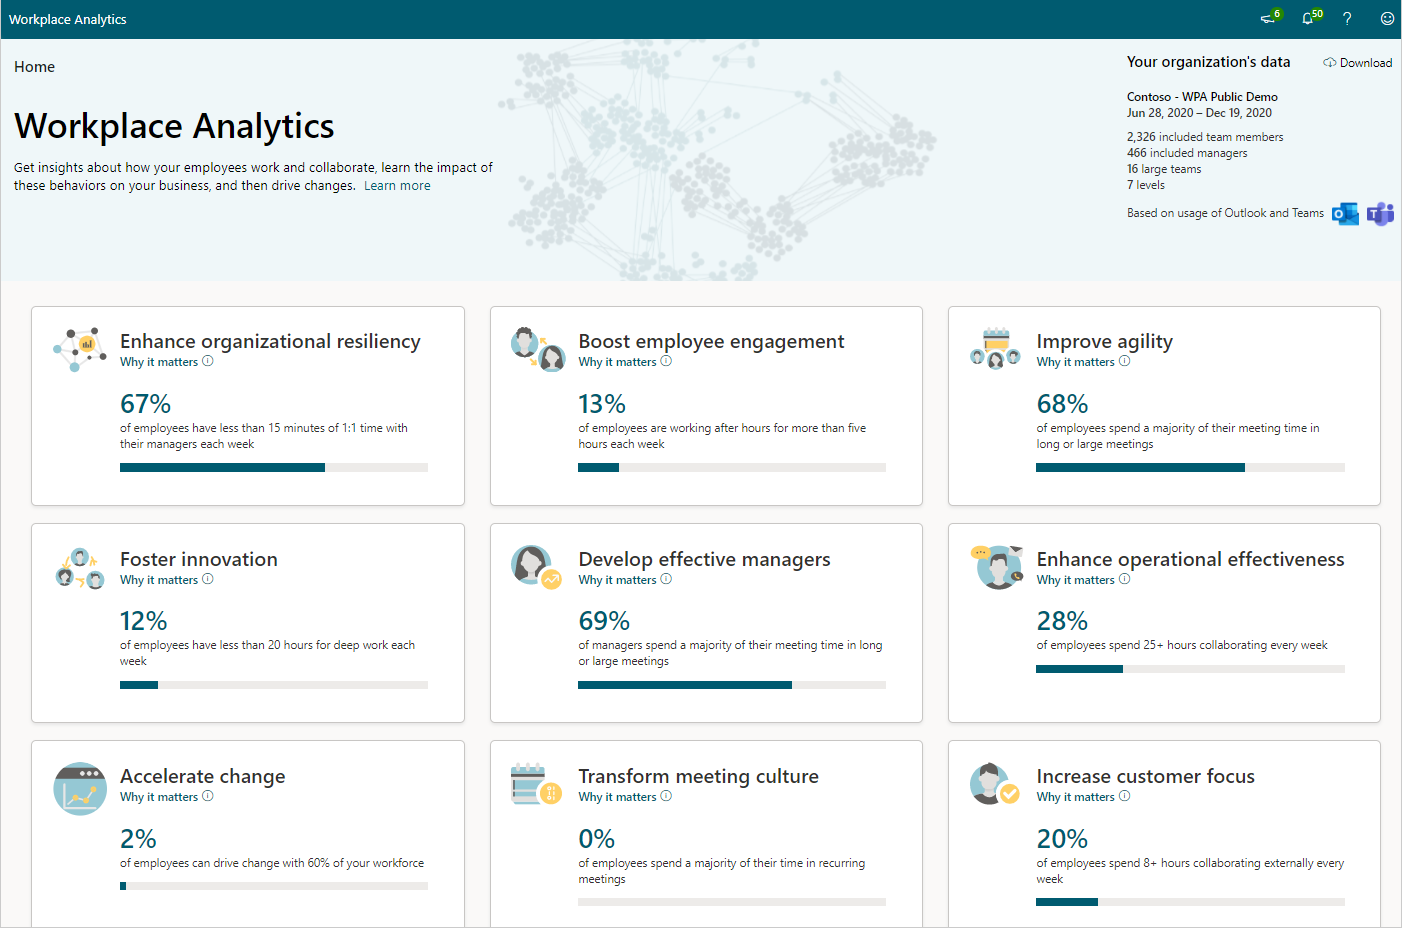
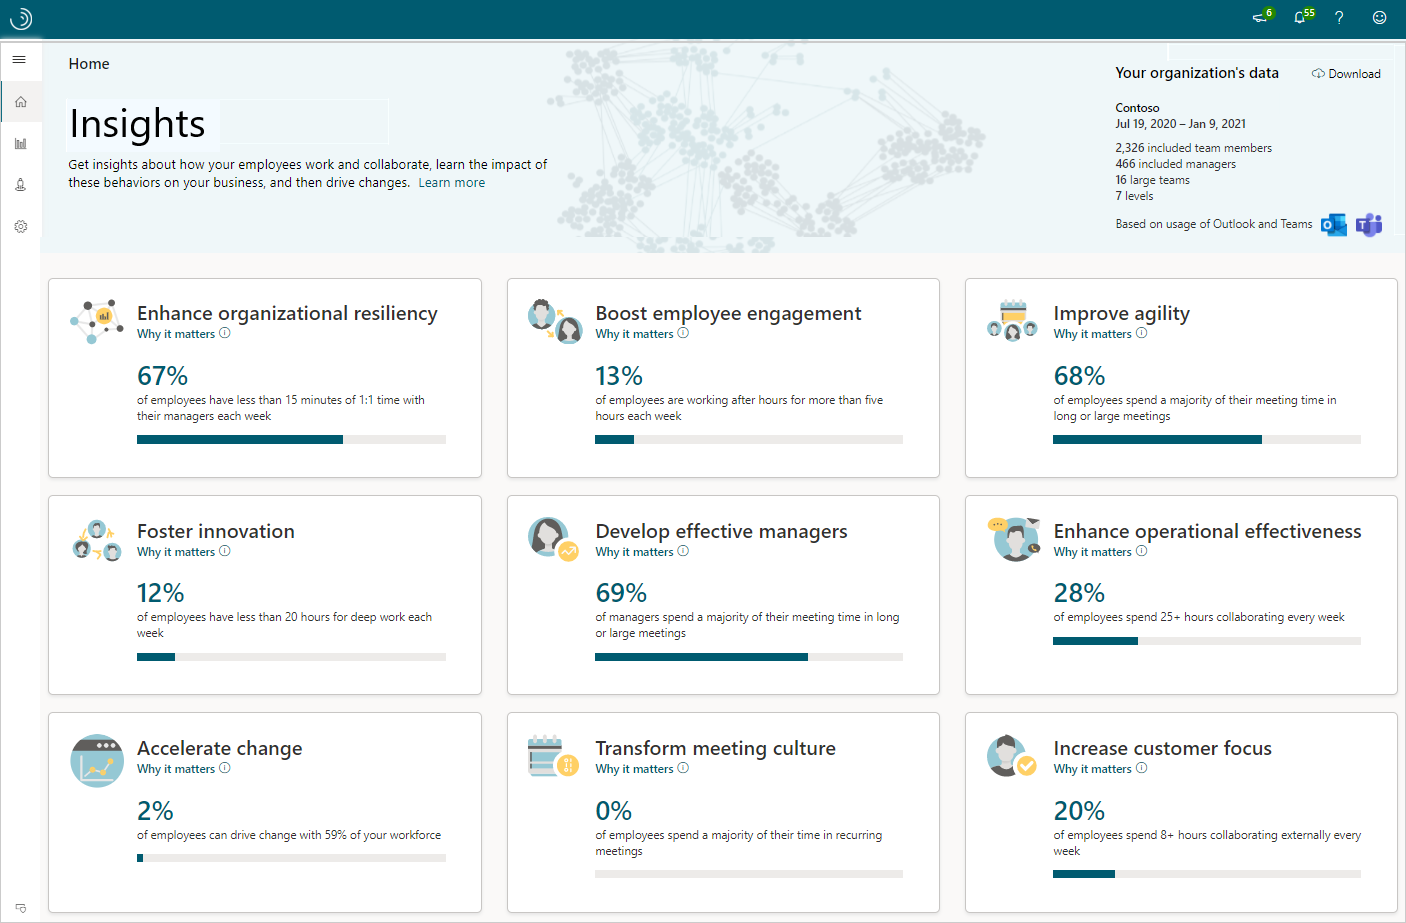
adds and updates

diff --git a/workplace-analytics-insights/intro.md b/workplace-analytics-insights/intro.md
@@ -1,7 +1,7 @@
 ---
 ROBOTS: NOINDEX,NOFOLLOW
-title: Introducing Workplace Analytics insights
-description: About Workplace Analytics insights to learn how your organization gets work done
+title: Introducing Insights
+description: About Insights to learn how your organization gets work done
 author: madehmer
 ms.author: v-mideh
 ms.topic: conceptual
@@ -9,21 +9,21 @@ localization_priority: normal
 ms.prod: wpa
 
 ---
-# Introducing Workplace Analytics insights
+# Insights introduction
 
 *This experience is only available through private preview at this time.*
 
-As a business leader, understanding how your employees work together is important. Workplace Analytics insights shows how your employees get work done and collaborate that can help you make business decisions accordingly.
+As a business leader, understanding how your employees work together is important. Microsoft Insights shows how your employees get work done and collaborate that can help you make business decisions accordingly.
 
 ![Insights home page](./images/insights-home.png)
 
 This new release is currently limited to Microsoft or Office 365 E5 or E3 plan subscribers through your Microsoft service representative.
 
-You can request access and get more information at [Microsoft Workplace Analytics](https://www.microsoft.com/microsoft-365/business/workplace-analytics). Select **Contact us** and complete the form to request access and get more information about Workplace Analytics insights.
+You can request access and get more information at [Microsoft Insights](https://www.microsoft.com/microsoft-365/business/workplace-analytics). Select **Contact us** and complete the form to request access and get more information about Insights.
 
 ## Your organizational data
 
-The top right of the page shows who in your organization is included in this analysis. This data is based on the most recent organizational data processed in your Azure Active Directory environment, including the current date range and the number of measured employees, managers, teams, and organizational levels.
+The top right of the page shows who in your organization is included in this analysis. This data is based on the most recent organizational data processed in your Microsoft Azure Active Directory environment, including the current date range and the number of measured employees, managers, teams, and organizational levels. For more details, see [Data privacy](privacy.md).
 
 >[!Important]
 >Only data about users whose [geo location is North America](https://docs.microsoft.com/microsoft-365/enterprise/microsoft-365-multi-geo#microsoft-365-multi-geo-availability) is included in this initial release.
@@ -32,7 +32,7 @@ The top right of the page shows who in your organization is included in this ana
 
 Each of the following business outcomes has a page dedicated to analysis about your organization and research-based suggestions on how to maintain or drive change toward business success.
 
-You can select **Download** in the top right to create and view a PowerPoint version of the following business outcomes. This enables you to share this valuable data with people in your organization who do not use Workplace Analytics.
+You can select **Download** in the top right to create and view a PowerPoint version of the following business outcomes. This enables you to share this valuable data with people in your organization who do not have access to Insights.
 
 |Business outcome |Why it matters |
 |-----------------|--------------|
@@ -48,10 +48,10 @@ You can select **Download** in the top right to create and view a PowerPoint ver
 
 ## Supporting evidence
 
-Each insight includes **Supporting evidence** that links you to related information, such as [Microsoft Workplace Insights](https://insights.office.com/) authored by:
+Each insight includes **Supporting evidence** that links you to related information, such as [Microsoft Insights](https://insights.office.com/) authored by:
 
 * Industry experts based on research
-* Organizations who have effectively used Workplace Analytics to improve their business outcomes
+* Organizations who have effectively used this type of analysis to improve their business outcomes
 
 ## Take action
 
@@ -61,4 +61,4 @@ You also might see one or more groups listed who are affected and would benefit 
 
 ## Advanced analysis
 
-Workplace Analytics gives you access to more advanced analysis tools and ways of exploring and reporting about your organization's collaboration data. See [Microsoft Workplace Analytics](https://microsoft.com/microsoft-365/business/workplace-analytics) to learn more about purchasing Workplace Analytics.
+Workplace Analytics gives you access to more advanced analysis tools and ways of exploring and reporting analysis about your organization's collaboration data. See [Microsoft Workplace Analytics](https://microsoft.com/microsoft-365/business/workplace-analytics) to learn more about purchasing and using Workplace Analytics.

diff --git a/workplace-analytics-insights/privacy.md b/workplace-analytics-insights/privacy.md
@@ -1,7 +1,7 @@
 ---
 ROBOTS: NOINDEX,NOFOLLOW
-title: Privacy with Workplace Analytics insights
-description: About how Workplace Analytics insights keep data private
+title: Data privacy with Insights
+description: About how personal data is kept private in Insights
 author: madehmer
 ms.author: v-mideh
 ms.topic: conceptual
@@ -9,15 +9,19 @@ localization_priority: normal
 ms.prod: wpa
 
 ---
-# Privacy with Workplace Analytics insights
+# Data privacy
 
 *This experience is only available through private preview at this time.*
 
-Microsoft Workplace Analytics insights produce powerful insights about how your organization functions. It does this by analyzing Microsoft 365 collaboration data and organizational data from Microsoft Azure Active Directory that you provide. Given the novelty of this Workplace Analytics service and the potential sensitivity about how data could be used, successful implementation and use of Workplace Analytics requires careful thought and planning with regard to data protection.  
+Microsoft Insights produce powerful analysis about how your organization functions. It does this by analyzing Microsoft 365 collaboration data and organizational data from Microsoft Azure Active Directory that you provide. 
+
+Given the novelty of this service and the potential sensitivity about how data could be used, successful implementation and use of Insights requires careful thought and planning with regard to data protection.  
 
 When data is processed for the insights, Microsoft protects privacy and fully complies with applicable local regulations, such as the General Data Protection Regulation (GDPR). The insights protect privacy in the following ways:
 
-* **Everyone's data is kept private by default** - Insights are based on aggregated data and do not include any personally identifiable information about any one individual in your organization. The insights and actions are based on information generated by you and your organization just by going about your regular workday.
-* **GDPR compliant** – Microsoft complies with the GDPR when providing Workplace Analytics insights.
+* **Everyone's data is kept private by default** - Insights are based on aggregated data and do not include any personally identifiable information about any one individual in your organization. The analysis and actions are based on information generated by you and your organization just by going about your regular workday.
+* **GDPR compliant** – Microsoft complies with the GDPR when providing Insights.
 
 This basic overview about data privacy is not intended as a substitute for addressing your organization’s unique needs by engaging with legal, privacy, human-resources, and other subject matter experts within your organization.
+
+For more details about what data is used in insights, see [Data access and analysis](data-analysis.md).

diff --git a/workplace-analytics-insights/faqs.md b/workplace-analytics-insights/faqs.md
@@ -2,7 +2,7 @@
 
 ROBOTS: NOINDEX,NOFOLLOW
 title: Insights FAQs
-description: Answers to the most frequently asked questions about Workplace Analytics insights
+description: Answers to the most frequently asked questions about Insights
 author: madehmer
 ms.author: v-mideh
 ms.topic: article
@@ -10,26 +10,26 @@ localization_priority: normal
 ms.prod: wpa
 
 ---
-# Frequently asked questions about Workplace Analytics insights
+# Frequently asked questions about Insights
 
 *This experience is only available through private preview at this time.*
 
-#### Q1. Who can see the insights?
+#### Q1. Who can see Insights?
 
 These insights are intended for business leaders in your organization to view high-level organizational metrics and insights. Your Microsoft 365 admin can give you access through the Microsoft 365 Admin center. See [Setup](setup.md) for details.
 
-#### Q2. What data are these insights based on?
+#### Q2. What data are Insights based on?
 
-The insights are using data from your Azure environment that is set up by your IT admin.
+The insights analyze data from your Azure environment that is set up by your IT admin. For details, see [Data access and analysis](data-analysis.md).
 
-#### Q3. Do these insights follow data privacy rules and regulations?
+#### Q3. Do Insights follow data privacy rules and regulations?
 
-Yes. Trusted Microsoft 365 security keeps data safe and private while providing Workplace Analytics insights.
+Yes. Trusted Microsoft 365 security keeps data safe and private while providing Insights about your organization. For details, see [Data privacy](privacy.md).
 
 #### Q4. Do Workplace Analytics insights comply with GDPR?
 
-Yes. Microsoft complies with GDPR requirements when providing Workplace Analytics insights.
+Yes. Microsoft complies with GDPR requirements when providing analysis in Insights.
 
 #### Q5 How can I get more in-depth analysis and action-oriented plans?
 
-Workplace Analytics gives you access to more advanced analysis tools and ways of exploring and reporting your organization's collaboration data. See [Microsoft Workplace Analytics](https://microsoft.com/microsoft-365/business/workplace-analytics) to learn more about purchasing Workplace Analytics.
+Workplace Analytics gives you access to more advanced analysis tools and ways of exploring and reporting analysis about your organization's collaboration. See [Microsoft Workplace Analytics](https://microsoft.com/microsoft-365/business/workplace-analytics) to learn more about purchasing and using Workplace Analytics.

diff --git a/workplace-analytics-insights/data-analysis.md b/workplace-analytics-insights/data-analysis.md
@@ -1,0 +1,43 @@
+---
+ROBOTS: NOINDEX,NOFOLLOW
+title: Insights data access and analysis
+description: More details about what data is accessed and analyzed in Insights
+author: madehmer
+ms.author: v-mideh
+ms.topic: conceptual
+localization_priority: normal 
+ms.prod: wpa
+
+---
+
+# Data access and analysis
+
+*This experience is only available through private preview at this time.*
+
+Being aware of employees' rights is a key component to ensuring success in using Insights. It is important to consider ever-changing laws and regulations regarding employer-employee relationships, privacy, and personal data, as well as company policies, before using Insights.
+
+Insights does not encode any specific policy, instead it provides controls that administrators can use to configure the product to be consistent with applicable laws, regulations, and company policies.
+
+>[!Important]
+> Consult with your legal and human resources teams before enabling Insights for your organization.
+
+## Who sees Insights
+
+Organizations decide who gets access to Insights. You ensure who receives suitable training in privacy, and in your company’s policies and other applicable subject areas, before granting them access to the data in Insights.
+
+## Organizational data from Microsoft Azure
+
+Organizational data is contextual information about your employees (for example: job title, level, location) that comes from information your organization provided in Microsoft Azure Active Directory (AAD).
+
+## Collaboration data from Microsoft 365
+
+Insights combines the organizational data in ADD with Microsoft 365 metadata to compute how much time groups within your organization spend in meetings, emails, calls, and chats, and with whom.
+
+This Microsoft 365 metadata provides the foundation for the analysis in Insights. The analysis uses the following information about items in user mailboxes and calendars.
+
+ | Item | Originator | Recipient | Subject | Chronology | Status | Venue |
+ | ---- | ---- | ---- | ---- | ---- | ---- | ---- |
+ | **email** | sender | recipient | subject line | sent time |  |  |
+ | **meeting** | organizer | invitees | subject line | scheduled time | attendee status | scheduled location |
+ | **call** | organizer | invitees |  | scheduled time, <br>call joined time, <br>call duration | call/join status |  |
+ | **chat** | sender of <br>initial IM | recipient |  | IM sent time |  |  |
